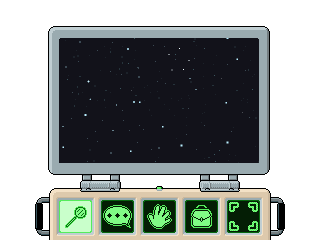
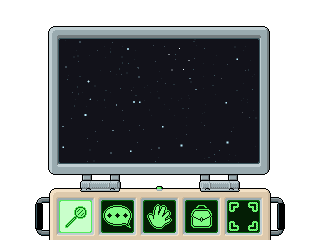
Updated UI, Added faux screen fold

Changed region(s): [[0.1562, 0.1458, 0.8125, 0.7]]

diff --git a/src/scenes/UI_Test.js b/src/scenes/UI_Test.js
@@ -13,5 +13,13 @@ class UI_Test extends Phaser.Scene
     create()
     {
         let conceptSprite = this.add.sprite(0, 0, 'uiConcept').setOrigin(0,0);
+        let screenHide = this.add.rectangle(0,0,320,180, 0xffffff).setOrigin(0,0).setInteractive().setAlpha(0.001);
+
+        screenHide.on('pointerdown', () => {
+            if(screenHide.alpha < 1)
+                screenHide.setAlpha(1);
+            else
+                screenHide.setAlpha(0.001);
+        });
     }
 }
